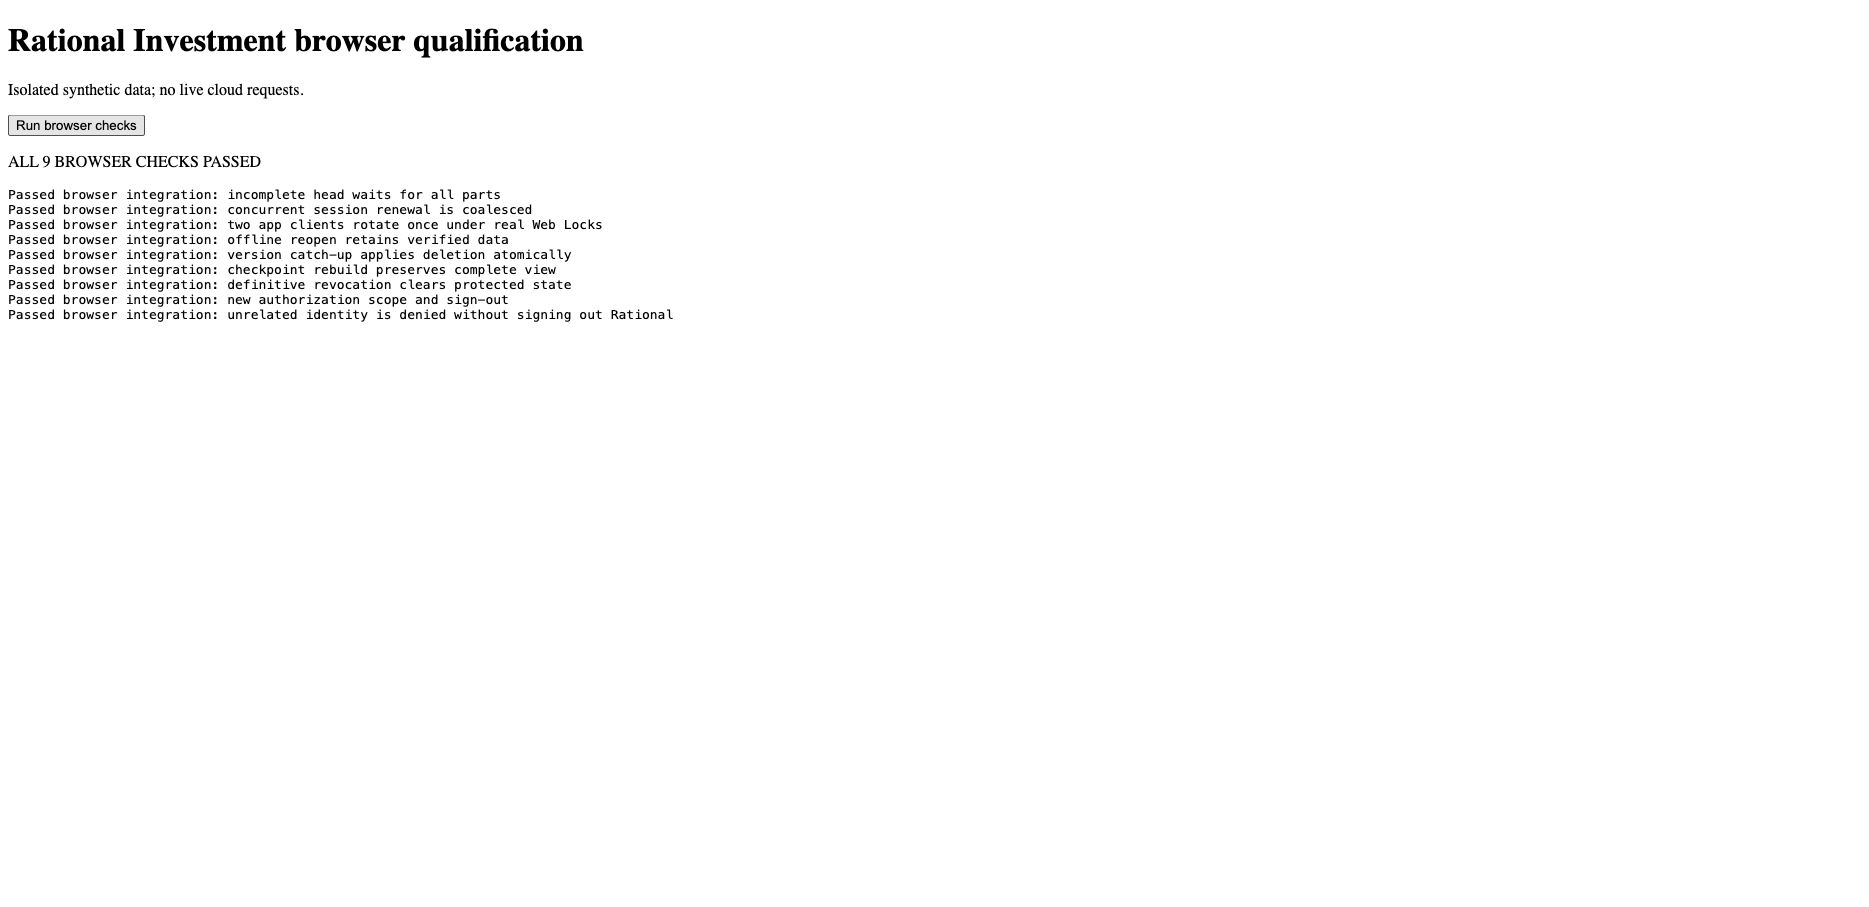
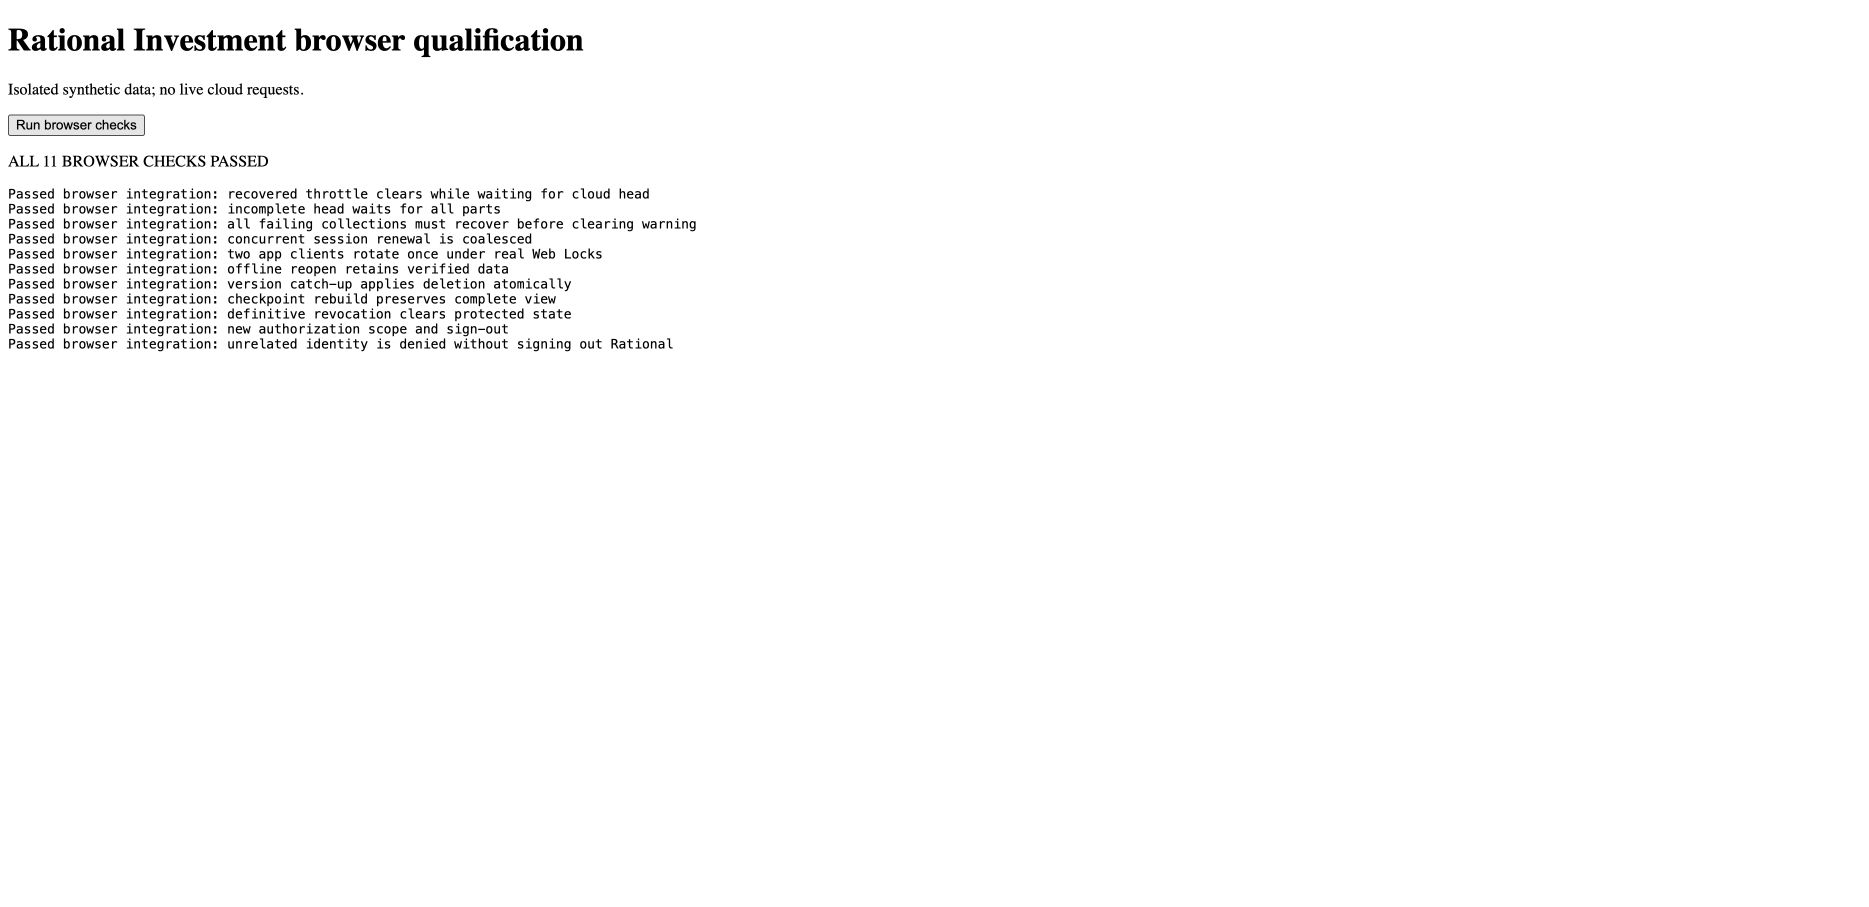
fix: reconcile retired rehearsal records before cutover

Changed region(s): [[0.0, 0.0926, 0.3724, 0.4013], [0.0, 0.0309, 0.3103, 0.0617]]

diff --git a/docs/investment-validation.md b/docs/investment-validation.md
@@ -1,10 +1,29 @@
 # Rational Investment integration validation
 
 The integration branch combines both browser entry points and hosted application
-code in Rational. Production cutover is **not complete**. At the last authenticated
-inspection on October 12, the source remained authoritative; the destination API
-was read-only, its dispatcher disabled, and its portfolio head unpublished. These
-live facts require rechecking before cutover.
+code in Rational. Production cutover is **not complete**. October 14 preflight
+verified all six source writer functions closed, the native worker disabled,
+zero active source write credentials, and all 784 source jobs quiescent. The
+destination API remains read-only, its dispatcher disabled, and its head
+unpublished. Final reconciliation is in progress.
+
+The complete final source snapshot passed graph/history/capture verification and
+all nine native/Wasm financial comparisons. Its saved inputs contain 82,524 records
+and 6,615,522,833 bytes; multipart export interruption/resumption and complete
+checksum verification passed after deployment of Mako Cloud PR #19.
+
+Fresh destination exports cover all 15 collections. Provider history already
+matches the final source. Of 2,017 rehearsal input records, eight remain in the
+final source and 2,009 were retired by source cleanup; every destination input
+still exactly matches the sealed rehearsal. Revision-checked cleanup and bounded
+create-only imports reconcile these disjoint record sets. No head is published
+until a fresh complete destination comparison passes.
+
+October 14 validation also passed all 11 isolated real-Chrome auth/replication
+checks, Rational typecheck, hosted/frontend Investment tests, 19 Python migration
+tests and strict validation of all three OpenSpec changes. Existing owner sign-in
+works across both local application entry points. Live portfolio rendering and
+final Pages smoke tests still await publication of the verified head.
 
 ## Completed checks
 
@@ -12,7 +31,7 @@ live facts require rechecking before cutover.
 - 224 Rational unit tests, 40 hosted Investment function tests, 12 Investment
   frontend tests, 13 migration-tool tests and 78 Rust workspace tests.
 - Seven local integration checks using the actual auth/RxDB/Dexie code.
-- Nine isolated real-Chrome checks, including concurrent token refresh under Web
+- Eleven isolated real-Chrome checks, including concurrent token refresh under Web
   Locks, offline reopen, incomplete graph handling, authorization reset, logout,
   and denial of unrelated users without signing them out of Rational.
 - Live Google sign-in, shared authentication across both entry points, cross-tab

diff --git a/docs/investment-migration.md b/docs/investment-migration.md
@@ -169,6 +169,16 @@ journaled. A failed job may have committed rows: preserve its receipt and verify
 a fresh destination baseline before any replacement job. Never use the older
 whole-file `investment-large-import.mjs` for a multi-gigabyte snapshot.
 
+If final source cleanup retired records present in the rehearsal, pass that sealed
+destination rehearsal as the optional sixth argument. Every extra baseline row
+must match the rehearsal exactly; every row shared with the final source must
+still match the final source. The bulk importer only creates missing source IDs.
+Separately reconcile the obsolete destination rows with `--existing-only --apply`;
+this uses revision-checked deletes and leaves missing rows for bulk admission.
+Both operations must finish and pass a fresh complete export comparison before
+publishing the head. An unexplained extra or changed immutable row still stops
+the transfer.
+
 ```sh
 node scripts/investment-bulk-inputs.mjs SOURCE DESTINATION_BASELINE \
   rational.config.json "$MAKO_CLI" PRIVATE_JOURNAL
